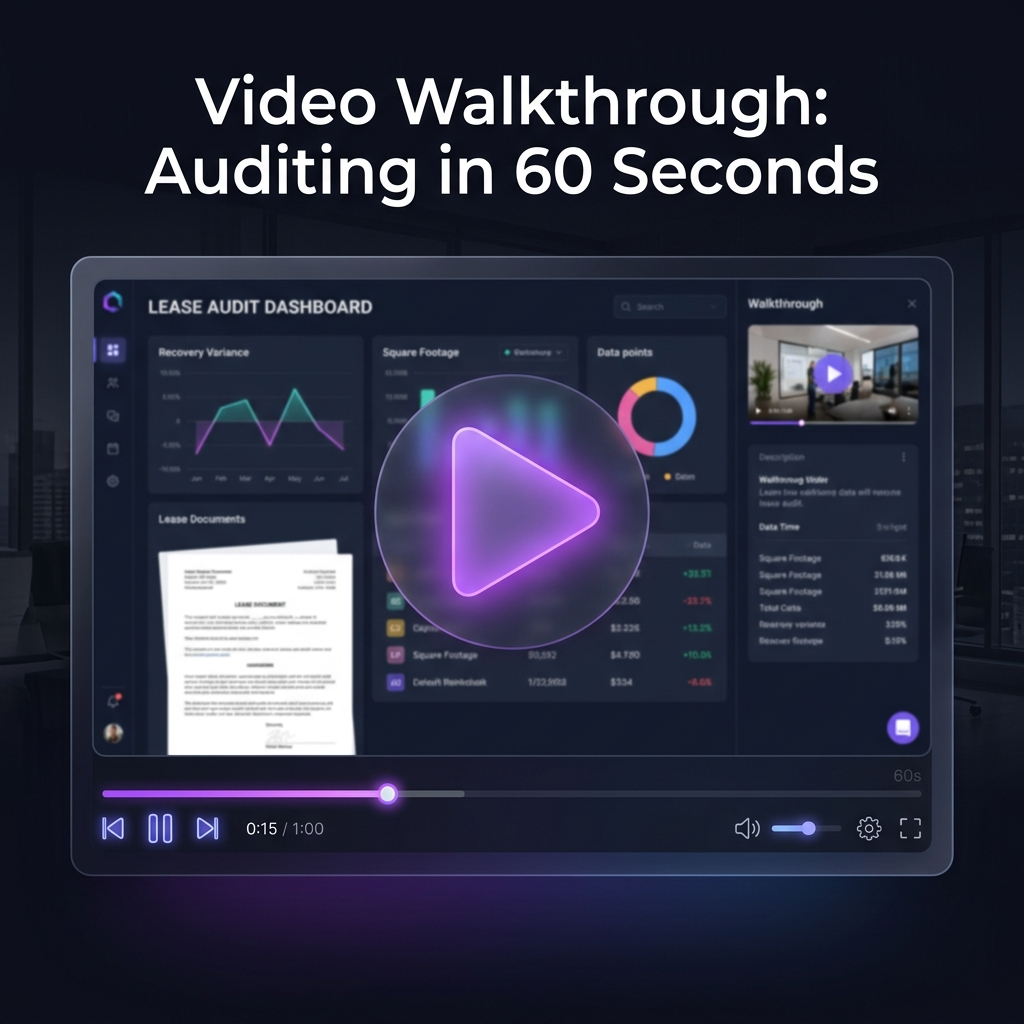
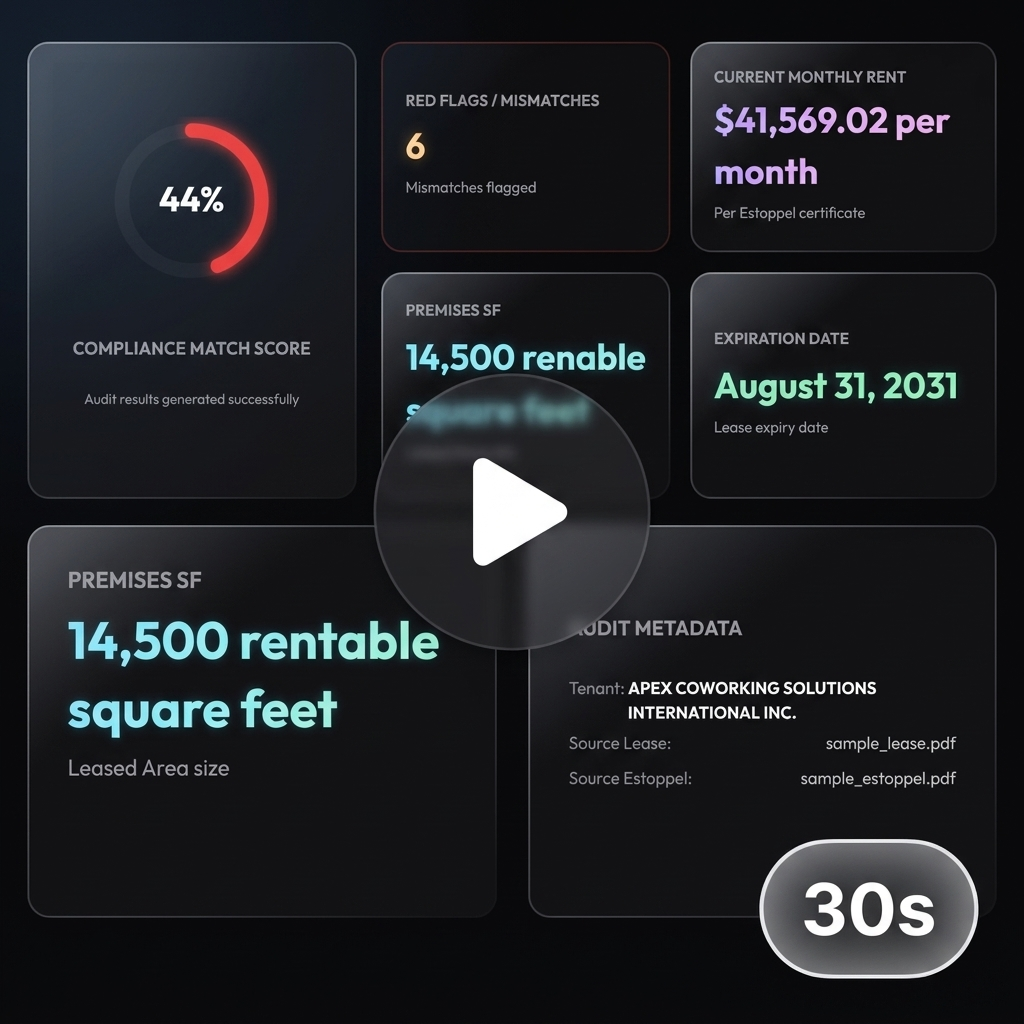
update: change walkthrough thumbnail/label to 30s and fix manual cancellation credit deduction

diff --git a/server.js b/server.js
@@ -2796,6 +2796,48 @@ app.post('/api/cancel-subscription', requireAuth, async (req, res) => {
                 // Parse current manual plans
                 const currentPlans = team.plan_tier.split(' + ').map(p => p.trim());
                 
+                // Calculate credits to deduct
+                let creditsToDeduct = 0;
+                for (const plan of plansToCancel) {
+                    const planConfig = PLANS_CATALOG[plan];
+                    creditsToDeduct += planConfig ? planConfig.amount : 0;
+                }
+
+                if (creditsToDeduct > 0) {
+                    try {
+                        const { data: grants, error: fetchErr } = await supabaseAdmin
+                            .from('team_credit_grants')
+                            .select('id, amount_remaining')
+                            .eq('team_id', profile.team_id)
+                            .or('expires_at.gt.now(),expires_at.is.null')
+                            .gt('amount_remaining', 0)
+                            .order('expires_at', { ascending: true, nullsFirst: false }); // NULLS LAST
+
+                        if (!fetchErr && grants && grants.length > 0) {
+                            let remainingToDeduct = creditsToDeduct;
+                            for (const grant of grants) {
+                                if (remainingToDeduct <= 0) break;
+                                if (grant.amount_remaining >= remainingToDeduct) {
+                                    const newAmt = grant.amount_remaining - remainingToDeduct;
+                                    await supabaseAdmin
+                                        .from('team_credit_grants')
+                                        .update({ amount_remaining: newAmt })
+                                        .eq('id', grant.id);
+                                    remainingToDeduct = 0;
+                                } else {
+                                    await supabaseAdmin
+                                        .from('team_credit_grants')
+                                        .update({ amount_remaining: 0 })
+                                        .eq('id', grant.id);
+                                    remainingToDeduct -= grant.amount_remaining;
+                                }
+                            }
+                        }
+                    } catch (grantErr) {
+                        console.warn("[Cancel Subscription] Error during manual credits deduction:", grantErr);
+                    }
+                }
+
                 // Filter out plans to cancel
                 const remainingPlans = currentPlans.filter(p => !plansToCancel.includes(p));
 
@@ -2822,6 +2864,9 @@ app.post('/api/cancel-subscription', requireAuth, async (req, res) => {
                         console.error("[Cancel Subscription] Error updating team remaining plans:", updateError);
                         return res.status(500).json({ error: "Failed to cancel subscription package." });
                     }
+
+                    // Recalculate team active credits cache
+                    await supabaseAdmin.rpc('recalculate_team_credits', { p_team_id: profile.team_id });
 
                     console.log(`[Subscription Cancellation] Updated manual plans for team ${profile.team_id}: ${newPlanTier} (seats: ${totalSeats})`);
                     return res.json({
@@ -2856,6 +2901,9 @@ app.post('/api/cancel-subscription', requireAuth, async (req, res) => {
                         console.warn("[Cancel Subscription] Error updating credit grants:", updateGrantsErr);
                     }
                     
+                    // Recalculate team active credits cache
+                    await supabaseAdmin.rpc('recalculate_team_credits', { p_team_id: profile.team_id });
+
                     console.log(`[Subscription Cancellation] Directly downgraded manual subscription to free for team ${profile.team_id} (User: ${req.user.email})`);
                     return res.json({
                         success: true,

diff --git a/public/index.html b/public/index.html
@@ -173,7 +173,7 @@
                                     <div class="play-btn-circle">
                                         <i data-lucide="play"></i>
                                     </div>
-                                    <span>Watch Simulated Walkthrough (60s)</span>
+                                    <span>Watch Simulated Walkthrough (30s)</span>
                                 </div>
                             </div>
                         </div>